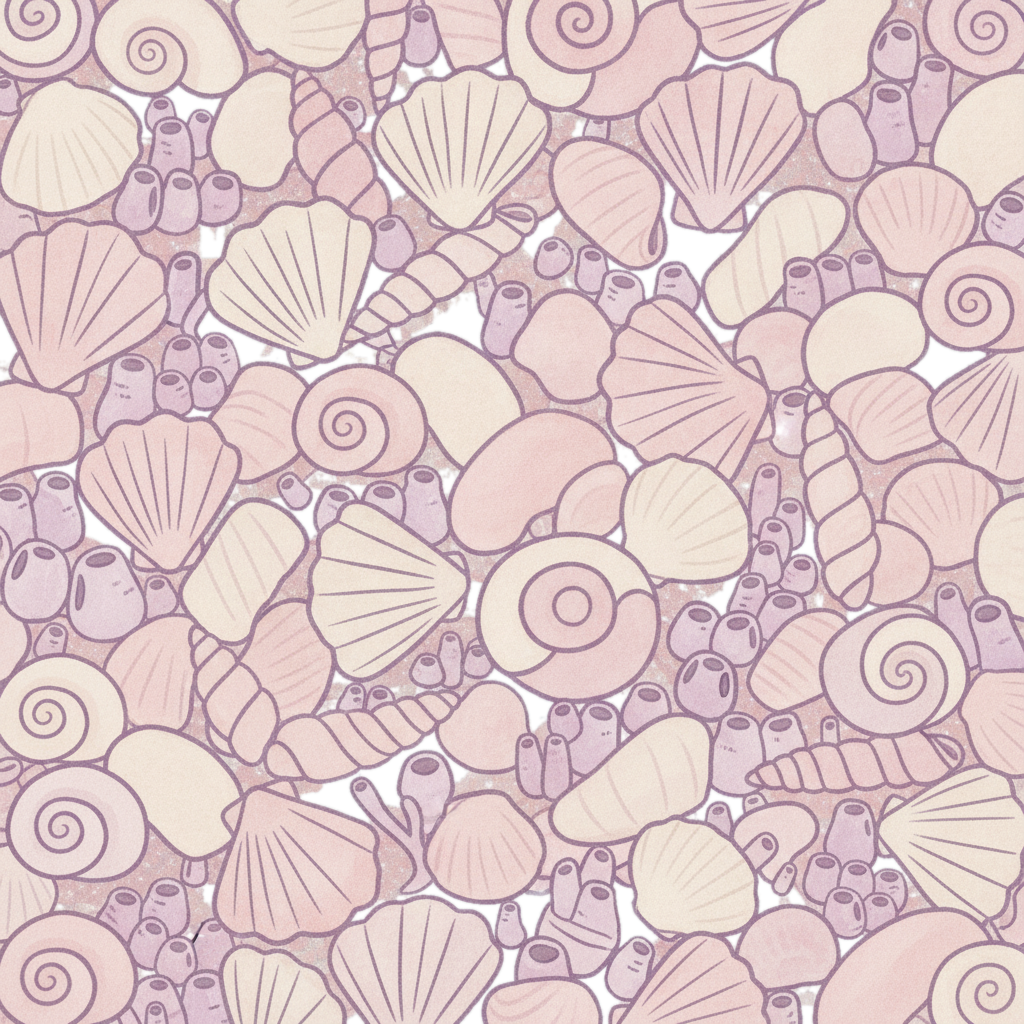
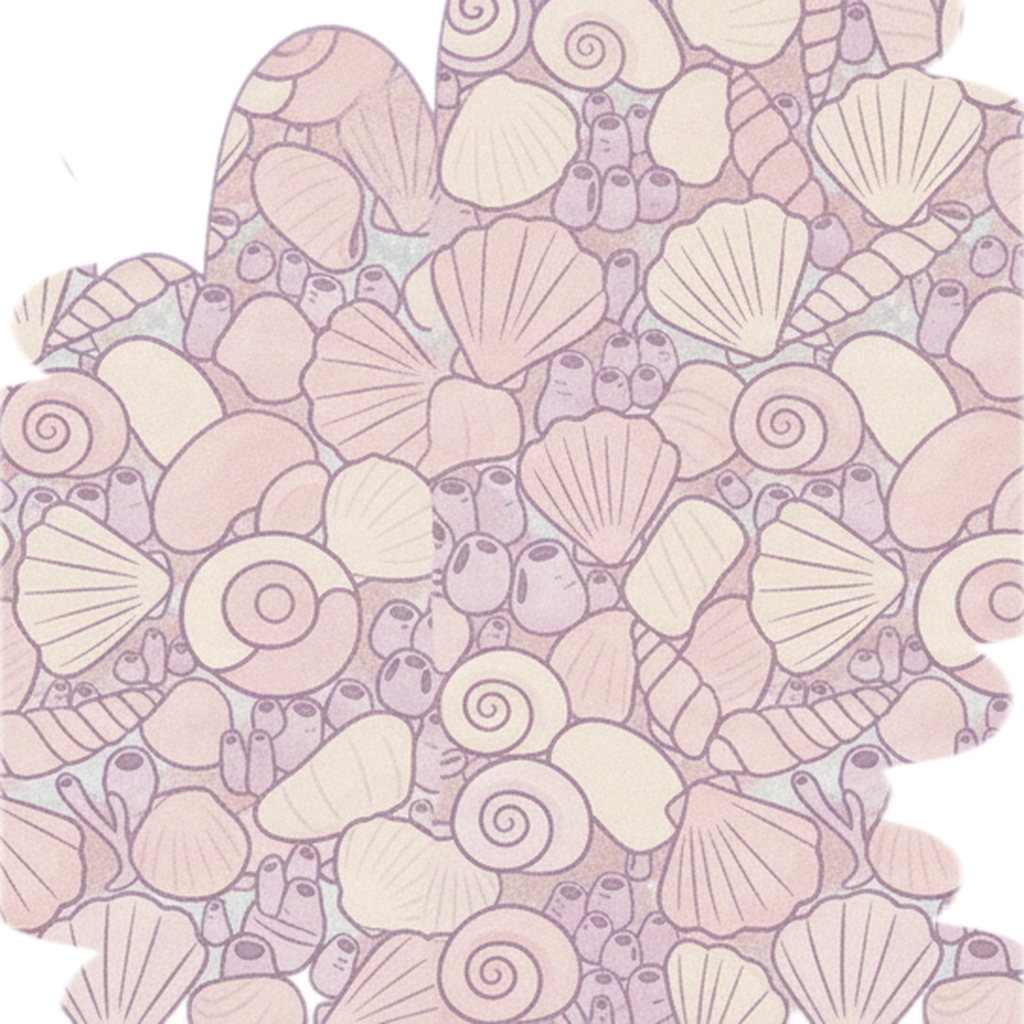
Arreglar corte cuadrado en paredes de laberinto, rediseñar moneda y evitar nenúfares sobre obstáculos
Pedido explícito del usuario (con captura real):
"Que no sea el corte cuadrado así... mejora el diseño para que sea más
limpio. Tmb las monedas, cambiemos de diseño, que sean doradas redonditas
y que tengan el relieve de la cara de lumi frontal... Y si hay un
obstáculo obstruyendo el propulsor del nenúfar, obviamente no se pone".

- reef_maze_wall_shell/_sponge: al ser un lienzo cuadrado (1024x1024, a
  diferencia del 1344x768 de reef_maze_wall) su extensión on-screen queda
  muy por debajo de CORRIDOR_BAND_SPACING, exponiendo 3 de sus 4 bordes
  duros contra agua abierta. Generado un borde festoneado real con Gemini
  y aplicado también a los otros dos bordes expuestos de ambas texturas
  (antes solo tenían el de "alcance" tratado, o ninguno en el caso de
  shell) — solo el borde que queda oculto contra el mundo se deja intacto.
- Nueva moneda (coin.png): disco dorado con la cara de Lumi grabada en
  relieve (tonos metálicos, no rosa), generado con Gemini a partir del
  crop de la cara de idle_01.png. CoinPickup ya no oscila la escala X para
  simular un giro (eso hacía que dos monedas en pantalla a la vez se
  leyeran de tamaño distinto) — tamaño siempre fijo a COIN_SCALE.
- ReefClusterSpawner.overlapsObstacle(): comprueba la caja de colisión
  real de cada pieza de cada cúmulo activo. LilyPadSpawner la usa antes de
  colocar cada nenúfar (nenúfar + toda la columna de su propio impulso
  hacia arriba) y prueba varias X antes de rendirse y saltarse ese
[…]

diff --git a/src/systems/LilyPadSpawner.ts b/src/systems/LilyPadSpawner.ts
@@ -5,12 +5,18 @@ import {
   LILY_PAD_BOOST_DISTANCE,
   LILY_PAD_MAX_GAP,
   LILY_PAD_MIN_GAP,
+  LILY_PAD_SCALE,
   REEF_COIN_SPACING,
 } from "@/config/GameConfig";
 
 const SPAWN_LOOKAHEAD = 900;
 const DESPAWN_MARGIN = 1200;
 const PAD_MARGIN_X = 120;
+// Cuántas posiciones X distintas se prueban antes de rendirse y saltarse
+// ese nenúfar del todo (ver overlapsObstacle abajo) — un cúmulo normal deja
+// libre la mayor parte del ancho, así que unos pocos intentos casi siempre
+// bastan para encontrar un hueco real.
+const OBSTACLE_AVOID_ATTEMPTS = 8;
 
 /**
  * Genera nenúfares sin parar por encima de Lumi según la cámara sube (nunca
@@ -24,16 +30,29 @@ export class LilyPadSpawner {
   private pads: LilyPad[] = [];
   private coins: CoinPickup[] = [];
   private highestY: number;
+  private padHalfWidth: number;
+  private padHalfHeight: number;
 
   constructor(
     private scene: Phaser.Scene,
     private worldWidth: number,
     startX: number,
     startY: number,
+    // Pedido explícito con captura real: un nenúfar apareció encima de la
+    // pared de un laberinto — "si hay un obstáculo obstruyendo el
+    // propulsor del nenúfar, obviamente no se pone". LilyPadSpawner no
+    // sabe nada de ReefCluster (viven en su propio spawner); PondScene le
+    // pasa la misma comprobación real que ya usa ReefClusterSpawner.
+    private readonly overlapsObstacle?: (x: number, yTop: number, yBottom: number, halfWidth: number) => boolean,
   ) {
     this.group = scene.physics.add.staticGroup();
     this.coinGroup = scene.physics.add.staticGroup();
     this.highestY = startY;
+
+    const tex = scene.textures.get("lily_pad_01").getSourceImage() as HTMLImageElement;
+    this.padHalfWidth = (tex.width * LILY_PAD_SCALE) / 2;
+    this.padHalfHeight = (tex.height * LILY_PAD_SCALE) / 2;
+
     this.spawnAt(startX, startY);
   }
 
@@ -62,11 +81,28 @@ export class LilyPadSpawner {
     }
   }
 
+  /** Prueba varias X al azar en esta altura y usa la primera que no
+   * solape ningún obstáculo real (nenúfar + toda la columna de su propio
+   * impulso hacia arriba, ver overlapsObstacle). Si ninguna de las
+   * pruebas sirve (cúmulo casi tan ancho como el mundo, muy raro), este
+   * nenúfar simplemente no aparece — mejor una ronda de generación
+   * saltada que uno colocado encima de una roca o una pared. */
+  private trySpawnAvoidingObstacles(y: number) {
+    const yTop = y - LILY_PAD_BOOST_DISTANCE;
+    const yBottom = y + this.padHalfHeight;
+    for (let i = 0; i < OBSTACLE_AVOID_ATTEMPTS; i++) {
+      const x = Phaser.Math.Between(PAD_MARGIN_X, this.worldWidth - PAD_MARGIN_X);
+      if (!this.overlapsObstacle?.(x, yTop, yBottom, this.padHalfWidth)) {
+        this.spawnAt(x, y);
+        return;
+      }
+    }
+  }
+
   update(cameraTopY: number, cameraBottomY: number, time: number) {
     while (this.highestY > cameraTopY - SPAWN_LOOKAHEAD) {
       this.highestY -= Phaser.Math.Between(LILY_PAD_MIN_GAP, LILY_PAD_MAX_GAP);
-      const x = Phaser.Math.Between(PAD_MARGIN_X, this.worldWidth - PAD_MARGIN_X);
-      this.spawnAt(x, this.highestY);
+      this.trySpawnAvoidingObstacles(this.highestY);
     }
 
     this.pads = this.pads.filter((pad) => {

diff --git a/src/systems/ReefClusterSpawner.ts b/src/systems/ReefClusterSpawner.ts
@@ -124,6 +124,31 @@ export class ReefClusterSpawner {
     );
   }
 
+  /** Consultado por LilyPadSpawner — pedido explícito con captura real: un
+   * nenúfar apareció encima de la pared de un laberinto ("si hay un
+   * obstáculo obstruyendo el propulsor del nenúfar, obviamente no se
+   * pone"). A diferencia de `isWithinAnyClusterBand` (solo altura, para
+   * animales que ya reciben su propio hueco garantizado dentro del
+   * cúmulo), esto comprueba la caja de colisión REAL (ya rotada/escalada,
+   * ver ReefCluster) de cada pieza contra el rectángulo `[x±halfWidth,
+   * yTop..yBottom]` — el nenúfar en sí más toda la columna que recorre su
+   * propio impulso hacia arriba, no solo el punto donde se dibuja. */
+  overlapsObstacle(x: number, yTop: number, yBottom: number, halfWidth: number): boolean {
+    const left = x - halfWidth;
+    const right = x + halfWidth;
+    for (const cluster of this.clusters) {
+      if (yBottom < cluster.yTop || yTop > cluster.yBottom) continue;
+      for (const sprite of cluster.obstacleSprites) {
+        const body = sprite.body as Phaser.Physics.Arcade.StaticBody;
+        if (right < body.x || left > body.x + body.width || yBottom < body.y || yTop > body.y + body.height) {
+          continue;
+        }
+        return true;
+      }
+    }
+    return false;
+  }
+
   update(cameraTopY: number, cameraBottomY: number, time: number) {
     while (this.highestY > cameraTopY - SPAWN_LOOKAHEAD) {
       this.highestY -= Phaser.Math.Between(REEF_CLUSTER_MIN_GAP, REEF_CLUSTER_MAX_GAP);

diff --git a/src/entities/CoinPickup.ts b/src/entities/CoinPickup.ts
@@ -3,7 +3,6 @@ import { COIN_SCALE } from "@/config/GameConfig";
 
 const BOB_AMPLITUDE = 6;
 const BOB_SPEED = 1.4;
-const SPIN_SPEED = 0.9;
 
 /**
  * Moneda: recompensa + guía visual de ruta (ver CoinSpawner, que las coloca
@@ -25,12 +24,14 @@ export class CoinPickup {
     this.phase = Phaser.Math.FloatBetween(0, Math.PI * 2);
   }
 
-  /** Balanceo vertical + un leve "destello" de giro (escala X oscilando),
-   * para que se note interactiva sin necesitar un sprite animado nuevo. */
+  /** Solo balanceo vertical — pedido explícito: "que sean todas del mismo
+   * tamaño". El "destello" de giro anterior escalaba solo el eje X para
+   * simular un spin, pero eso hacía que dos monedas vistas en el mismo
+   * instante (cada una con su propia fase aleatoria) se leyeran de
+   * tamaño distinto. Todas quedan siempre a COIN_SCALE fijo. */
   update(time: number) {
     const t = time / 1000;
     this.sprite.y = this.baseY + Math.sin(t * BOB_SPEED + this.phase) * BOB_AMPLITUDE;
-    this.sprite.setScale(COIN_SCALE * (0.85 + 0.15 * Math.cos(t * SPIN_SPEED + this.phase)), COIN_SCALE);
   }
 
   playPickupAndDestroy(scene: Phaser.Scene, onComplete: () => void) {

diff --git a/src/scenes/PondScene.ts b/src/scenes/PondScene.ts
@@ -232,7 +232,13 @@ export class PondScene extends Phaser.Scene {
 
     // Nenúfares: uno de salida en la misma posición de siempre, y el resto
     // se generan sin parar según Lumi sube. Tocar cualquiera da un boost.
-    this.lilyPadSpawner = new LilyPadSpawner(this, WORLD_WIDTH, 562, START_Y - 158);
+    // El callback se resuelve en el momento de llamarse, no al construir
+    // (reefClusterSpawner todavía no existe aquí, se crea más abajo) —
+    // mismo patrón que el resto de spawners con isWithinAnyClusterBand,
+    // solo que este se construye antes en vez de después.
+    this.lilyPadSpawner = new LilyPadSpawner(this, WORLD_WIDTH, 562, START_Y - 158, (x, yTop, yBottom, halfWidth) =>
+      this.reefClusterSpawner?.overlapsObstacle(x, yTop, yBottom, halfWidth) ?? false,
+    );
     this.physics.add.overlap(
       this.lumi.sprite,
       this.lilyPadSpawner.group,

diff --git a/PROGRESS.md b/PROGRESS.md
@@ -87,6 +87,63 @@ funciona **hoy**, verificado en el código — no lo que el diseño aspira a ten
   propio juego, forzando la cámara a distintas altitudes: crossfade limpio
   `background_deep` → `background_abyss` entrando a offset 30000 (justo
   antes del tinte de la Zona 4 "Aguas profundas", a 37500).
+- **Corte cuadrado en `reef_maze_wall_shell`/`reef_maze_wall_sponge`**
+  (reportado con captura real: "estas cosas se ven el corte"). Causa real
+  encontrada: a diferencia de `reef_maze_wall` (rectángulo 1344×768, borde
+  irregular en un lado, pero on-screen ocupa casi toda `CORRIDOR_BAND_SPACING`
+  así que sus otros 3 bordes duros casi nunca se ven), `reef_maze_wall_shell`/
+  `_sponge` son un lienzo CUADRADO (1024×1024): con el mismo `edgeReach`,
+  su extensión on-screen queda en ~384px, muy por debajo de
+  `CORRIDOR_BAND_SPACING` (700) — dejando sus otros 3 bordes (duros, a
+  sangre completa) muy expuestos contra el agua abierta. `reef_maze_wall_shell`
+  encima solo tenía TRANSPARENCIA REAL en 0 de sus 4 bordes (ni siquiera el
+  de "alcance") — el más roto de los dos. Arreglado en dos pasos: (1)
+  generado con Gemini un borde festoneado limpio (conchas de altura
+  desigual con hueco transparente real entre ellas, mismo criterio que
+  `reef_maze_wall`/`_sponge`) tras 2 intentos fallidos (uno sin canal alpha,
+  otro con relación de aspecto equivocada) — el 3er intento sí sirvió,
+  recortado a cuadrado y reescalado a 1024×1024 preservando proporciones;
+  (2) aplicado ese MISMO perfil de festoneado (reutilizado, no una nueva
+  generación) también a los bordes izquierdo y derecho de AMBAS texturas
+  (shell y sponge — sponge ya tenía su borde superior bien pero los otros 3
+  igual de duros/expuestos), dejando solo el borde inferior a sangre
+  completa (el que de verdad queda oculto contra el borde del mundo, ver
+  `edgeFlush`). Verificado con composite en magenta y en el propio juego
+  forzando `reefClusterSpawner.spawnExact` con las plantillas shellMaze/
+  spongeMaze/reeflabyrinth una al lado de otra para comparar: ya no se lee
+  un rectángulo con esquinas duras, silueta festoneada en los 3 lados
+  expuestos igual que el resto de paredes de laberinto.
+- **Moneda rediseñada**: pedido explícito "que sean doradas redonditas y
+  que tengan el relieve de la cara de lumi frontal y que sean todas del
+  mismo tamaño". Nuevo `coin.png` generado con Gemini (disco dorado
+  metálico, cara de Lumi grabada en relieve en tonos dorados —no rosa—,
+  contorno lavanda, mismo destello que la moneda anterior), usando el
+  crop de la carita de Lumi de `idle_01.png` como referencia de qué
+  grabar. Además, `CoinPickup.update()` tenía un "destello de giro" que
+  oscilaba solo la escala X (simulando un spin) — eso hacía que dos
+  monedas vistas en el mismo instante, cada una con su propia fase
+  aleatoria, se leyeran de tamaño distinto; quitado del todo, ahora el
+  tamaño es `COIN_SCALE` fijo siempre (verificado programáticamente: todas
+  las monedas activas en juego con `scaleX === scaleY === COIN_SCALE`).
+- **Nenúfar sobre un obstáculo**: pedido explícito con captura real ("si
+  hay un obstáculo obstruyendo el propulsor del nenúfar, obviamente no se
+  pone"). `LilyPadSpawner` colocaba nenúfares en X aleatoria sin ninguna
+  noción de `ReefCluster`/`ReefClusterSpawner` — podía coincidir con un
+  cúmulo o pared de laberinto real. Añadido `ReefClusterSpawner.
+  overlapsObstacle(x, yTop, yBottom, halfWidth)`, que comprueba la caja de
+  colisión REAL (ya rotada/escalada) de cada pieza de cada cúmulo activo
+  contra un rectángulo — el nenúfar en sí MÁS toda la columna que recorre
+  su propio impulso hacia arriba (`LILY_PAD_BOOST_DISTANCE`), no solo el
+  punto donde se dibuja. `LilyPadSpawner` prueba hasta 8 posiciones X al
+  azar por altura y usa la primera libre; si ninguna sirve, ese nenúfar
+  simplemente no aparece esa vez (mejor saltarse uno que ponerlo mal). Los
+  animales (medusa cerca de la salida de un laberinto, etc.) no se tocan
+  — la petición del usuario explícitamente los deja fuera ("a no ser que
+  sea un enemigo al final ese si se puede dejar"). Verificado con un
+  stress test: 40 cúmulos/laberintos pegados cada 500px (mucho más denso
+  que el juego real) + `LilyPadSpawner.update()` sobre todo ese rango —
+  cero nenúfares solapando ningún obstáculo real, comprobado con la misma
+  `overlapsObstacle` contra la caja física de cada pieza.
 
 # EN PROGRESO
 
@@ -2189,13 +2246,11 @@ avanzando)
 
 # PRÓXIMA TAREA
 
-Esperar la reacción del usuario a esta ronda (arreglo del corte en las
-algas + 4ª variante de fondo `background_abyss` para las alturas nuevas)
-antes de seguir. En concreto, confirmar si el arreglo de las algas
-(agrandadas y bajadas) resuelve de verdad lo que vio en su captura — al no
-haberse podido aislar la causa exacta pixel a pixel, conviene una
-confirmación visual explícita antes de dar el bug por cerrado del todo.
-Líneas abiertas explícitas (rondas anteriores, sin resolver todavía):
+Esperar la reacción del usuario a esta ronda (borde festoneado en las
+paredes de laberinto de conchas/esponjas en vez del corte cuadrado, moneda
+dorada con la cara de Lumi en relieve y tamaño fijo, nenúfares que ya no
+se colocan encima de un obstáculo). Líneas abiertas explícitas (rondas
+anteriores, sin resolver todavía):
 
 0. **Confirmar que la "zona en paralelo" de erizos se lee bien en el
    móvil** — el pasillo libre entre las 2 columnas (offset 18950-19350)
